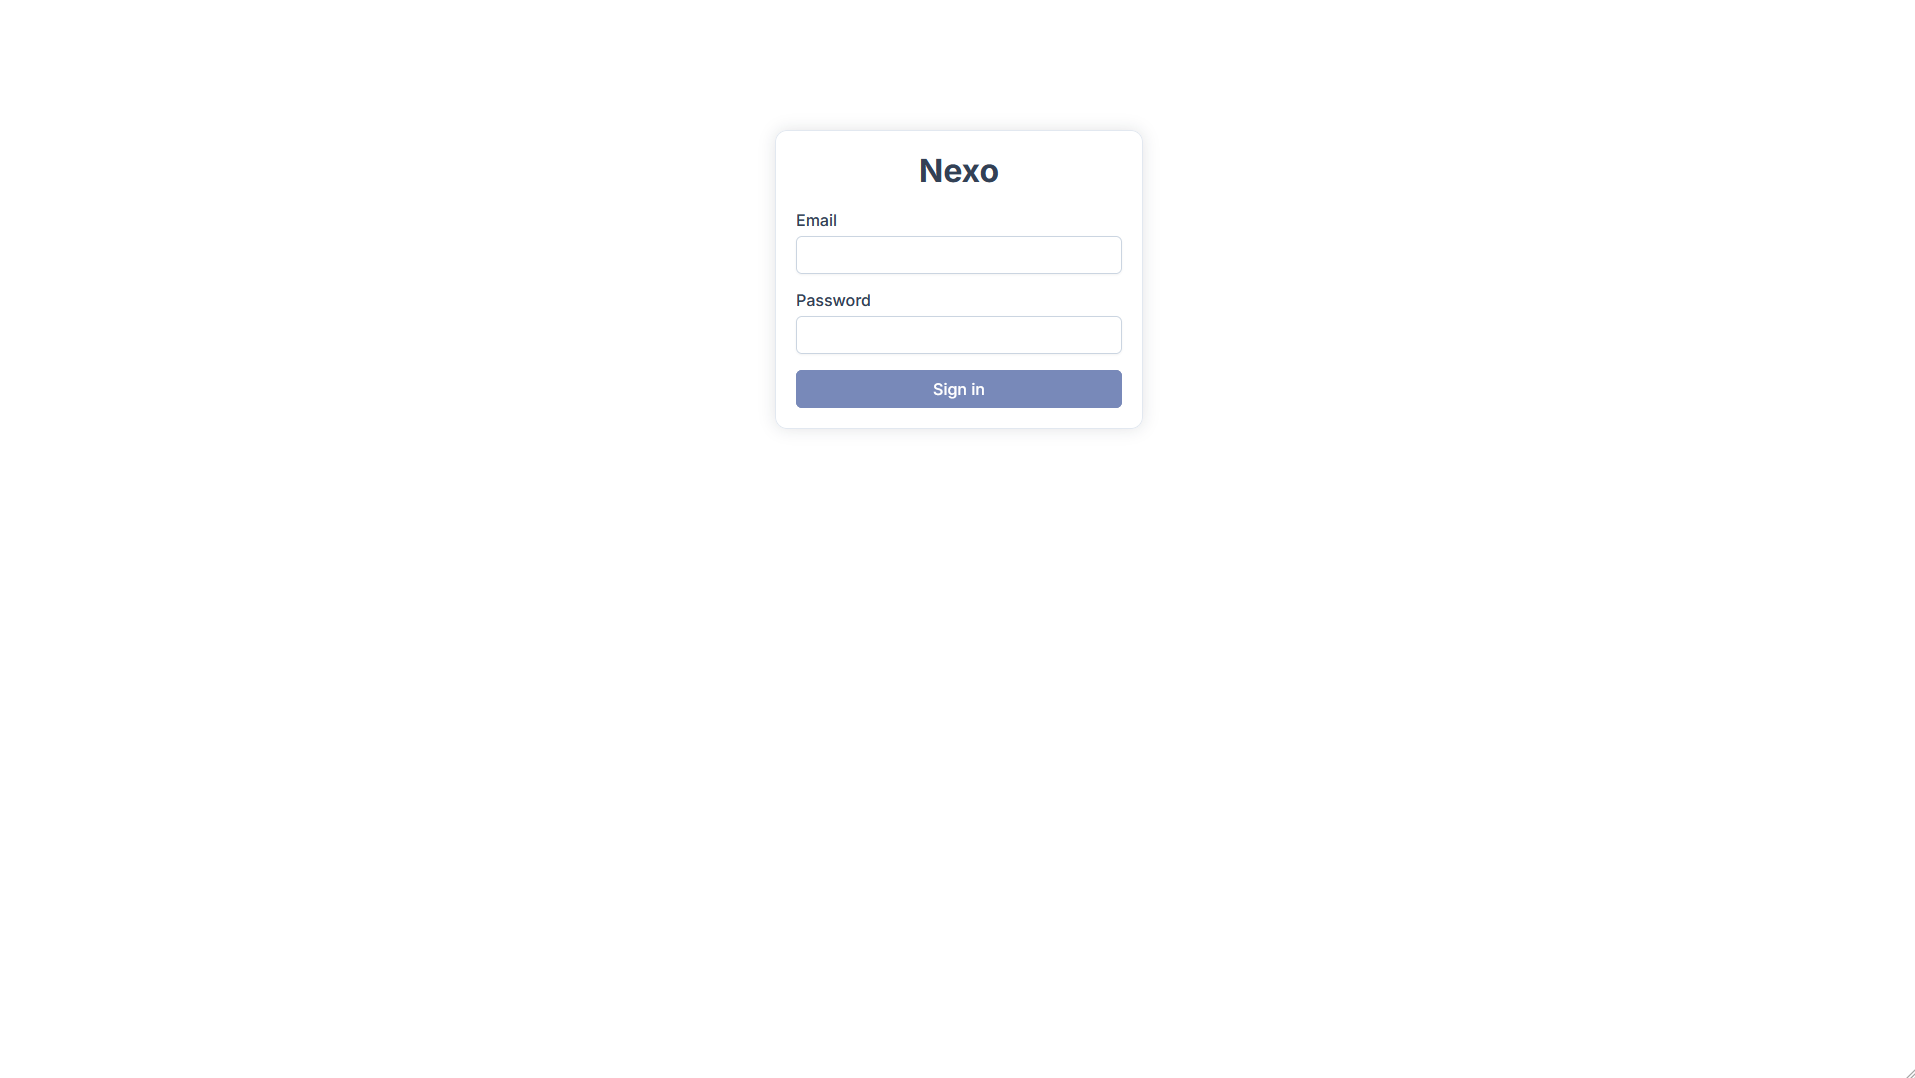
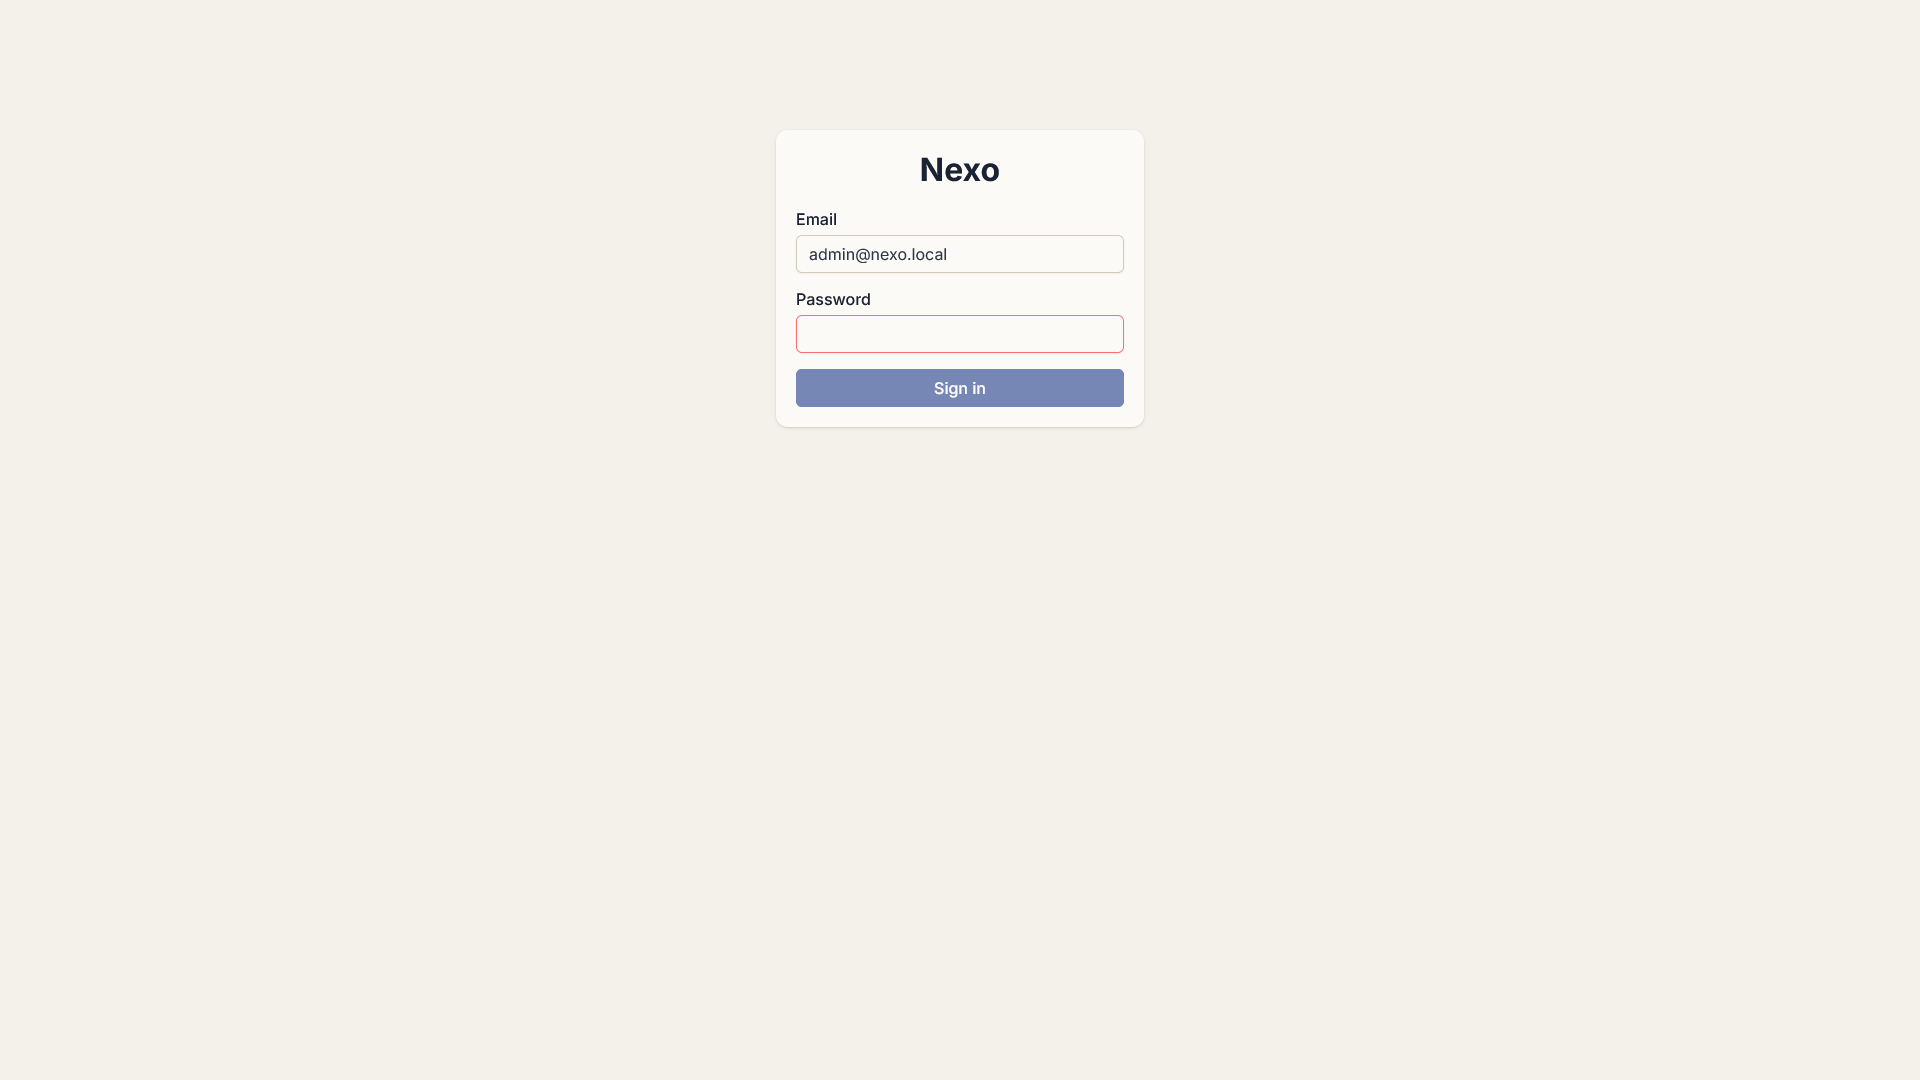
feat: add create ticket dialog and update README

diff --git a/fronted/src/app/features/tickets/ticket-list/ticket-list.ts b/fronted/src/app/features/tickets/ticket-list/ticket-list.ts
@@ -1,21 +1,20 @@
 import { Component, DestroyRef, OnInit, computed, inject, signal } from '@angular/core';
 import { DatePipe, NgTemplateOutlet } from '@angular/common';
 import { ActivatedRoute, Router, RouterLink } from '@angular/router';
-import { FormBuilder, FormControl, FormsModule, ReactiveFormsModule, Validators } from '@angular/forms';
+import { FormControl, FormsModule, ReactiveFormsModule } from '@angular/forms';
 import { takeUntilDestroyed } from '@angular/core/rxjs-interop';
 import { catchError, debounceTime, distinctUntilChanged, filter, finalize, of, switchMap, tap } from 'rxjs';
 import { TableModule } from 'primeng/table';
 import { ButtonModule } from 'primeng/button';
-import { DialogModule } from 'primeng/dialog';
 import { DrawerModule } from 'primeng/drawer';
 import { PaginatorModule } from 'primeng/paginator';
 import { SkeletonModule } from 'primeng/skeleton';
 import { InputTextModule } from 'primeng/inputtext';
-import { TextareaModule } from 'primeng/textarea';
 import { SelectModule } from 'primeng/select';
 import { MultiSelectModule } from 'primeng/multiselect';
 import { DatePickerModule } from 'primeng/datepicker';
 import { TagModule } from 'primeng/tag';
+import { TicketFormDialog } from './ticket-form-dialog';
 import { TicketService } from '../../../core/services/ticket.service';
 import { CustomerService } from '../../../core/services/customer.service';
 import { EmployeeService, type AssignableTechnician } from '../../../core/services/employee.service';
@@ -23,7 +22,6 @@ import { AuthService } from '../../../core/services/auth.service';
 import { ViewportService } from '../../../core/services/viewport.service';
 import { Customer } from '../../../core/models/customer';
 import { Ticket } from '../../../core/models/ticket';
-import { DEVICE_TYPE_OPTIONS } from '../../../core/models/device-type';
 import { TicketStatus, TICKET_STATUS_LABELS, TICKET_STATUS_SEVERITY, ALL_TICKET_STATUSES } from '../../../core/models/ticket-status';
 import {
   defaultFilters,
@@ -38,12 +36,10 @@ import {
   imports: [
     TableModule,
     ButtonModule,
-    DialogModule,
     DrawerModule,
     PaginatorModule,
     SkeletonModule,
     InputTextModule,
-    TextareaModule,
     SelectModule,
     MultiSelectModule,
     DatePickerModule,
@@ -53,6 +49,7 @@ import {
     DatePipe,
     RouterLink,
     NgTemplateOutlet,
+    TicketFormDialog,
   ],
   templateUrl: './ticket-list.html',
   styleUrl: './ticket-list.css',
@@ -65,7 +62,6 @@ export class TicketList implements OnInit {
   private customerService = inject(CustomerService);
   private employeeService = inject(EmployeeService);
   private auth = inject(AuthService);
-  private fb = inject(FormBuilder);
   viewport = inject(ViewportService);
 
   filters = signal<TicketFilters>(defaultFilters(null, null));
@@ -74,7 +70,6 @@ export class TicketList implements OnInit {
   loading = signal(false);
   loadError = signal<string | null>(null);
   hasLoaded = signal(false);
-  isSaving = signal(false);
   technicians = signal<AssignableTechnician[]>([]);
   customers = signal<Customer[]>([]);
   dialogVisible = signal(false);
@@ -117,20 +112,8 @@ export class TicketList implements OnInit {
 
   isFiltered = computed(() => this.activeFilterCount() > 0);
 
-  deviceTypeOptions = DEVICE_TYPE_OPTIONS;
   statusLabels = TICKET_STATUS_LABELS;
   statusSeverity = TICKET_STATUS_SEVERITY;
-
-  form = this.fb.nonNullable.group({
-    customerId: this.fb.control<number | null>(null, Validators.required),
-    problemDescription: ['', [Validators.required, Validators.maxLength(500)]],
-    device: this.fb.nonNullable.group({
-      type: ['OTHER' as const, Validators.required],
-      brand: [''],
-      model: [''],
-      identifier: [''],
-    }),
-  });
 
   ngOnInit(): void {
     this.employeeService
@@ -248,35 +231,11 @@ export class TicketList implements OnInit {
   }
 
   openNew(): void {
-    this.form.reset({
-      customerId: null,
-      problemDescription: '',
-      device: { type: 'OTHER', brand: '', model: '', identifier: '' },
-    });
     this.dialogVisible.set(true);
   }
 
-  save(): void {
-    if (this.form.invalid || this.isSaving()) return;
-    const customerId = this.form.controls.customerId.value;
-    if (customerId === null) return;
-
-    const raw = this.form.getRawValue();
-    this.isSaving.set(true);
-    this.ticketService
-      .createTicket({
-        customerId,
-        problemDescription: raw.problemDescription,
-        device: { ...raw.device, identifier: raw.device.identifier || null },
-      })
-      .subscribe({
-        next: () => {
-          this.isSaving.set(false);
-          this.dialogVisible.set(false);
-          this.retry();
-        },
-        error: () => this.isSaving.set(false),
-      });
+  onTicketCreated(): void {
+    this.retry();
   }
 
   shortId(publicId: string): string {

diff --git a/fronted/src/app/features/tickets/ticket-list/ticket-form-dialog.ts b/fronted/src/app/features/tickets/ticket-list/ticket-form-dialog.ts
@@ -1,0 +1,82 @@
+import { Component, inject, input, model, output, signal } from '@angular/core';
+import { FormBuilder, ReactiveFormsModule, Validators } from '@angular/forms';
+import { DialogModule } from 'primeng/dialog';
+import { InputTextModule } from 'primeng/inputtext';
+import { TextareaModule } from 'primeng/textarea';
+import { SelectModule } from 'primeng/select';
+import { ButtonModule } from 'primeng/button';
+import { TicketService } from '../../../core/services/ticket.service';
+import { Customer } from '../../../core/models/customer';
+import { Ticket } from '../../../core/models/ticket';
+import { DEVICE_TYPE_OPTIONS } from '../../../core/models/device-type';
+
+@Component({
+  selector: 'app-ticket-form-dialog',
+  imports: [DialogModule, InputTextModule, TextareaModule, SelectModule, ButtonModule, ReactiveFormsModule],
+  templateUrl: './ticket-form-dialog.html',
+})
+export class TicketFormDialog {
+  private ticketService = inject(TicketService);
+  private fb = inject(FormBuilder);
+
+  /** Two-way bound: parent opens with `dialogVisible.set(true)` and binds explicitly. */
+  visible = model(false);
+  /** Customer options for the dropdown, loaded by the parent list. */
+  customers = input<Customer[]>([]);
+
+  saved = output<Ticket>();
+
+  isSaving = signal(false);
+  saveError = signal<string | null>(null);
+
+  deviceTypeOptions = DEVICE_TYPE_OPTIONS;
+
+  form = this.fb.nonNullable.group({
+    customerId: this.fb.control<number | null>(null, Validators.required),
+    problemDescription: ['', [Validators.required, Validators.maxLength(500)]],
+    device: this.fb.nonNullable.group({
+      type: ['OTHER' as const, Validators.required],
+      brand: [''],
+      model: [''],
+      identifier: [''],
+    }),
+  });
+
+  // PrimeNG fires onShow every time the dialog opens. Plain method, no signals
+  // written inside an effect, so no change detection surprises.
+  onOpen(): void {
+    this.saveError.set(null);
+    this.form.reset({
+      customerId: null,
+      problemDescription: '',
+      device: { type: 'OTHER', brand: '', model: '', identifier: '' },
+    });
+  }
+
+  save(): void {
+    if (this.form.invalid || this.isSaving()) return;
+    const customerId = this.form.controls.customerId.value;
+    if (customerId === null) return;
+
+    const raw = this.form.getRawValue();
+    this.isSaving.set(true);
+    this.saveError.set(null);
+    this.ticketService
+      .createTicket({
+        customerId,
+        problemDescription: raw.problemDescription,
+        device: { ...raw.device, identifier: raw.device.identifier || null },
+      })
+      .subscribe({
+        next: ticket => {
+          this.isSaving.set(false);
+          this.saved.emit(ticket);
+          this.visible.set(false);
+        },
+        error: () => {
+          this.isSaving.set(false);
+          this.saveError.set('Could not create the ticket.');
+        },
+      });
+  }
+}

diff --git a/fronted/src/app/features/tickets/ticket-list/ticket-list.html b/fronted/src/app/features/tickets/ticket-list/ticket-list.html
@@ -167,35 +167,9 @@
   }
 }
 
-<p-dialog
-  header="New ticket"
+<app-ticket-form-dialog
   [visible]="dialogVisible()"
   (visibleChange)="dialogVisible.set($event)"
-  [modal]="true"
-  [style]="{ width: '480px' }"
-  styleClass="nexo-dialog"
->
-  <form [formGroup]="form" (ngSubmit)="save()" class="dialog-form">
-    <label>
-      <span>Customer <span class="required-marker" aria-hidden="true">*</span></span>
-      <p-select [options]="customers()" optionLabel="name" optionValue="id" formControlName="customerId" appendTo="body" [filter]="true" placeholder="Select a customer" required />
-    </label>
-
-    <div formGroupName="device" class="device-group">
-      <label>
-        <span>Device type <span class="required-marker" aria-hidden="true">*</span></span>
-        <p-select [options]="deviceTypeOptions" optionLabel="label" optionValue="value" formControlName="type" appendTo="body" required />
-      </label>
-      <label>Brand<input pInputText formControlName="brand" /></label>
-      <label>Model<input pInputText formControlName="model" /></label>
-      <label>Serial number / identifier<input pInputText formControlName="identifier" /></label>
-    </div>
-
-    <label>
-      <span>Problem description <span class="required-marker" aria-hidden="true">*</span></span>
-      <textarea pTextarea formControlName="problemDescription" rows="3" required maxlength="500"></textarea>
-    </label>
-
-    <p-button type="submit" label="Create ticket" [disabled]="form.invalid || isSaving()" [loading]="isSaving()" />
-  </form>
-</p-dialog>
+  [customers]="customers()"
+  (saved)="onTicketCreated()"
+/>

diff --git a/fronted/src/app/features/tickets/ticket-list/ticket-form-dialog.html b/fronted/src/app/features/tickets/ticket-list/ticket-form-dialog.html
@@ -1,0 +1,35 @@
+<p-dialog
+  header="New ticket"
+  [(visible)]="visible"
+  (onShow)="onOpen()"
+  [modal]="true"
+  [style]="{ width: '480px' }"
+  styleClass="nexo-dialog"
+>
+  <form [formGroup]="form" (ngSubmit)="save()" class="dialog-form">
+    <label>
+      <span>Customer <span class="required-marker" aria-hidden="true">*</span></span>
+      <p-select [options]="customers()" optionLabel="name" optionValue="id" formControlName="customerId" appendTo="body" [filter]="true" placeholder="Select a customer" required />
+    </label>
+
+    <div formGroupName="device" class="device-group">
+      <label>
+        <span>Device type <span class="required-marker" aria-hidden="true">*</span></span>
+        <p-select [options]="deviceTypeOptions" optionLabel="label" optionValue="value" formControlName="type" appendTo="body" required />
+      </label>
+      <label>Brand<input pInputText formControlName="brand" /></label>
+      <label>Model<input pInputText formControlName="model" /></label>
+      <label>Serial number / identifier<input pInputText formControlName="identifier" /></label>
+    </div>
+
+    <label>
+      <span>Problem description <span class="required-marker" aria-hidden="true">*</span></span>
+      <textarea pTextarea formControlName="problemDescription" rows="3" required maxlength="500"></textarea>
+    </label>
+
+    @if (saveError() != null) {
+      <p class="error" role="alert">{{ saveError() }}</p>
+    }
+    <p-button type="submit" label="Create ticket" [disabled]="form.invalid || isSaving()" [loading]="isSaving()" />
+  </form>
+</p-dialog>

diff --git a/fronted/src/app/core/services/ticket.service.ts b/fronted/src/app/core/services/ticket.service.ts
@@ -47,7 +47,7 @@ export class TicketService {
   }
 
   createTicket(ticket: NewTicket): Observable<Ticket> {
-    return this.http.post<Ticket>(this.baseUrl, ticket);
+    return this.http.post<Ticket>(this.baseUrl, ticket, { context: silentContext() });
   }
 
   assignEmployee(publicId: string, dto: { employeeId: number | null }): Observable<Ticket> {

diff --git a/README.md b/README.md
@@ -17,18 +17,18 @@ Nexo is a small management app for a device repair shop, built as a learning and
 
 - Real login: email and password with JWT in an HttpOnly cookie (`SameSite=Strict`). Roles (`TECHNICIAN`, `RECEPTION`, `ADMIN`) enforced by the backend. The session survives page reloads.
 - Customers: paginated list, shared create/edit dialog, and a detail page with contact info plus the customer ticket history.
-- Tickets: paginated list (customer, device, status, technician, date), creation dialog linked to a customer, and a detail page with a progress stepper, technician assignment, status changes, internal notes and a full timeline.
+- Tickets: filterable, paginated list (status, technician, creation dates and text search, with filters kept in the URL so the view can be shared), creation dialog linked to a customer, and a detail page with a progress stepper, technician assignment, status changes, internal notes and a full timeline. The layout adapts to mobile with cards and a filter sheet.
 - Employees (admin only): list, creation and edit.
 
 ## Planned features
 
-- Search and filters for tickets, customers and employees.
+- Search and filters for customers and employees.
 - Dashboard with simple metrics.
 
 ## Stack and architecture
 
 - `backend/`: Java 21, Spring Boot (Web MVC, Data JPA/Hibernate, Security, Validation), PostgreSQL. REST API under `/api` (`/auth`, `/customers`, `/tickets`, `/employees`). Auth is JWT in an HttpOnly cookie (jjwt, HS256) with role based authorization.
-- `fronted/`: Angular 21 (standalone components, signals, reactive forms) with PrimeNG 21. Code is split by feature (`customers`, `tickets`, `employees`), plus shared `core/` (services, models, guards) and `layout/` (app shell with sidebar).
+- `fronted/`: Angular 21 (standalone components, signals, reactive forms) with PrimeNG 21. Code is split by feature (`customers`, `tickets`, `employees`), plus shared `core/` (services, models, guards) and `layout/` (app shell with sidebar on desktop, navigation drawer on mobile).
 - The frontend calls the backend directly at `http://localhost:8080/api`.
 
 ## How to run
